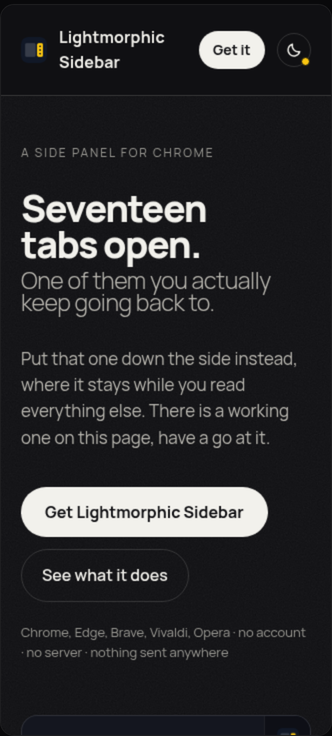
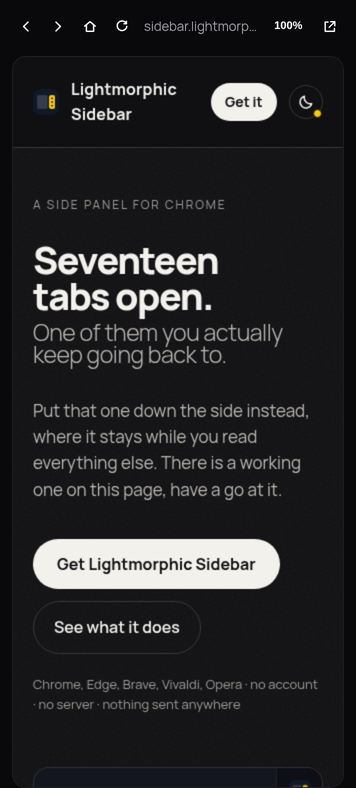
Show the panel bar in the page-in-panel shot
The crop started below the panels own bar, so the demo showed a page with no
back, forward, home, reload or size control above it. Recropped from the top
of the panel body: the bar is there, and the image still holds its own
proportions rather than being stretched.

diff --git a/site/index.html b/site/index.html
@@ -519,7 +519,7 @@
   .demo-h { font-size: 0.75rem; letter-spacing: 0.12em; text-transform: uppercase; color: #8a8c96; margin: 0 0 0.75rem; }
   /* Held at its own proportions, so it is never stretched to fit. */
   .demo-site { border: 1px solid rgba(255,255,255,.1); border-radius: 12px; overflow: hidden; }
-  .demo-site img { width: 100%; height: auto; display: block; aspect-ratio: 332 / 736; object-fit: cover; object-position: top; }
+  .demo-site img { width: 100%; height: auto; display: block; aspect-ratio: 356 / 788; object-fit: cover; object-position: top; }
   .demo-hint { font-size: 0.75rem; color: #8a8c96; margin: 0.75rem 0 0; }
 
   .demo-flag {
@@ -759,7 +759,7 @@ Charlie</span></div>
 
     <div class="demo-view" data-view="pinned">
       <p class="demo-hint demo-hint-top">This is a site open in the panel: this one, in fact.</p>
-      <div class="demo-site"><img src="images/lightmorphic-sidebar-in-panel.png" alt="The Lightmorphic Sidebar website open inside the panel" width="332" height="736" loading="lazy"></div>
+      <div class="demo-site"><img src="images/lightmorphic-sidebar-in-panel.png" alt="The Lightmorphic Sidebar website open inside the panel" width="356" height="788" loading="lazy"></div>
     </div>
   </div>
 
